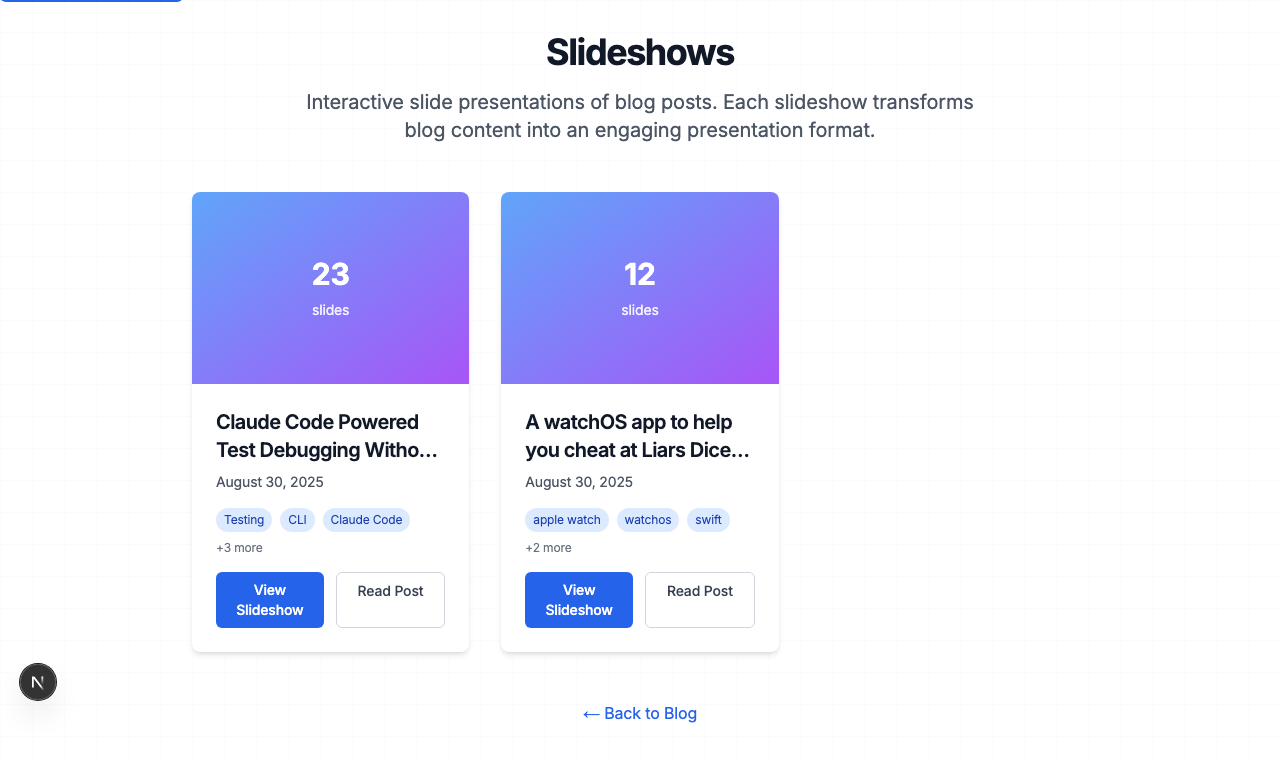
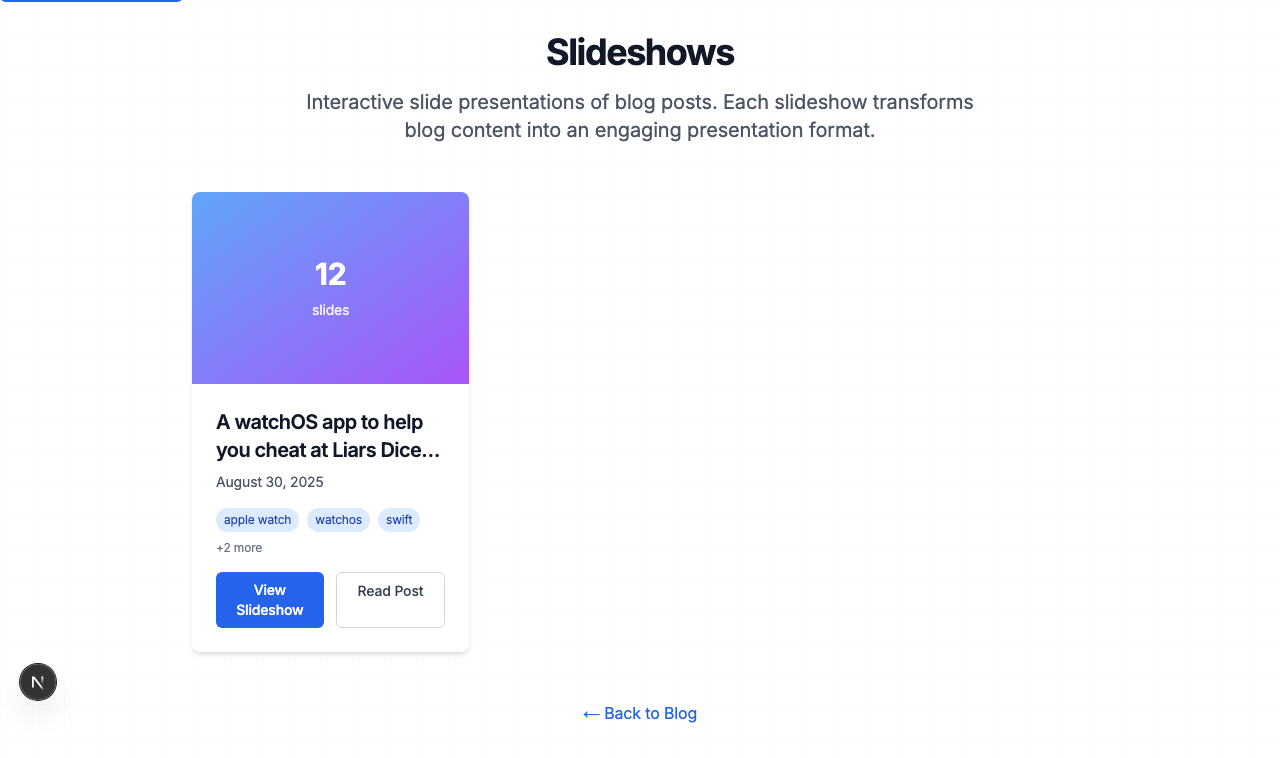
feat: Implement manual slideshow creation system
IMPROVEMENT: Slideshows are now manually controlled instead of automatic! ✅

Key changes:
- Added `slideshow: true` frontmatter field to enable slideshows per post
- Updated PostData interface to include optional slideshow field
- Modified slideshow filtering to only show posts with slideshow: true
- Updated UI to conditionally show slideshow CTAs only for enabled posts
- Enhanced post parsing to read slideshow field from frontmatter

Behavior changes:
✅ Only posts with `slideshow: true` get slideshow generation
✅ Slideshow CTA only appears on posts with slideshow enabled
✅ /slides index only shows manually enabled slideshows
✅ Direct slideshow URLs return 404 if post doesn't have slideshow: true
✅ Existing functionality preserved for enabled posts

Example configuration:
```yaml
---
title: "My Post"
date: "2025-08-31"
slideshow: true  # <- Add this to enable slideshow
---
```

Test results:
- Liars Dice post: ✅ slideshow enabled, CTA visible, slideshow accessible
- TFQ post: ✅ slideshow disabled, no CTA, returns 404
- All existing functionality working for enabled posts

This gives you full control over which posts become slideshows! 🎯

🤖 Generated with [Claude Code](https://claude.ai/code)

diff --git a/playwright-report/index.html b/playwright-report/index.html
@@ -73,4 +73,4 @@ Error generating stack: `+u.message+`
     <div id='root'></div>
   </body>
 </html>
[2 lines of base64/hex data omitted]

diff --git a/app/posts/[id]/page.tsx b/app/posts/[id]/page.tsx
@@ -138,27 +138,29 @@ export default async function PostPage({ params }: PostPageProps) {
               <div dangerouslySetInnerHTML={{ __html: post.content }} />
             </div>
 
-            {/* Slideshow CTA */}
-            <div className="mt-12 p-6 rounded-lg border-2 border-dashed border-gray-300 dark:border-gray-600 bg-gray-50 dark:bg-gray-800/50">
-              <div className="text-center">
-                <div className="text-4xl mb-4">📽</div>
-                <h3 className="text-lg font-semibold text-gray-900 dark:text-gray-100 mb-2">
-                  View as Slideshow
-                </h3>
-                <p className="text-gray-600 dark:text-gray-400 mb-4">
-                  Experience this post as an interactive presentation
-                </p>
-                <Link
-                  href={`/slides/${post.id}`}
-                  className="inline-flex items-center px-6 py-3 border border-transparent text-base font-medium rounded-md text-white bg-blue-600 hover:bg-blue-700 transition-colors duration-200"
-                >
-                  Open Slideshow
-                  <svg className="ml-2 -mr-1 w-5 h-5" fill="currentColor" viewBox="0 0 20 20">
-                    <path fillRule="evenodd" d="M10.293 3.293a1 1 0 011.414 0l6 6a1 1 0 010 1.414l-6 6a1 1 0 01-1.414-1.414L14.586 11H3a1 1 0 110-2h11.586l-4.293-4.293a1 1 0 010-1.414z" clipRule="evenodd" />
-                  </svg>
-                </Link>
+            {/* Slideshow CTA - only show if post has slideshow enabled */}
+            {post.slideshow && (
+              <div className="mt-12 p-6 rounded-lg border-2 border-dashed border-gray-300 dark:border-gray-600 bg-gray-50 dark:bg-gray-800/50">
+                <div className="text-center">
+                  <div className="text-4xl mb-4">📽</div>
+                  <h3 className="text-lg font-semibold text-gray-900 dark:text-gray-100 mb-2">
+                    View as Slideshow
+                  </h3>
+                  <p className="text-gray-600 dark:text-gray-400 mb-4">
+                    Experience this post as an interactive presentation
+                  </p>
+                  <Link
+                    href={`/slides/${post.id}`}
+                    className="inline-flex items-center px-6 py-3 border border-transparent text-base font-medium rounded-md text-white bg-blue-600 hover:bg-blue-700 transition-colors duration-200"
+                  >
+                    Open Slideshow
+                    <svg className="ml-2 -mr-1 w-5 h-5" fill="currentColor" viewBox="0 0 20 20">
+                      <path fillRule="evenodd" d="M10.293 3.293a1 1 0 011.414 0l6 6a1 1 0 010 1.414l-6 6a1 1 0 01-1.414-1.414L14.586 11H3a1 1 0 110-2h11.586l-4.293-4.293a1 1 0 010-1.414z" clipRule="evenodd" />
+                    </svg>
+                  </Link>
+                </div>
               </div>
-            </div>
+            )}
 
           </article>
         </main>

diff --git a/lib/posts.ts b/lib/posts.ts
@@ -111,6 +111,7 @@ export interface PostData {
   metaDescription?: string
   canonicalUrl?: string
   relatedPosts?: string[]
+  slideshow?: boolean
 }
 
 export interface PostMeta {
@@ -151,7 +152,8 @@ export function getSortedPostsData(): PostData[] {
         seoTitle: matterResult.data.seoTitle || matterResult.data.title,
         metaDescription: matterResult.data.metaDescription || matterResult.data.excerpt,
         canonicalUrl: matterResult.data.canonicalUrl,
-        relatedPosts: matterResult.data.relatedPosts || []
+        relatedPosts: matterResult.data.relatedPosts || [],
+        slideshow: matterResult.data.slideshow || false
       }
     })
 
@@ -222,7 +224,8 @@ export async function getPostData(id: string): Promise<PostData | null> {
     seoTitle: matterResult.data.seoTitle || matterResult.data.title,
     metaDescription: matterResult.data.metaDescription || matterResult.data.excerpt,
     canonicalUrl: matterResult.data.canonicalUrl,
-    relatedPosts: matterResult.data.relatedPosts || []
+    relatedPosts: matterResult.data.relatedPosts || [],
+    slideshow: matterResult.data.slideshow || false
   }
 }
 

diff --git a/lib/slides.ts b/lib/slides.ts
@@ -179,16 +179,21 @@ function createSlideFromBuffer(slide: Partial<Slide>, content: string[]): Slide 
 }
 
 /**
- * Get all available slideshows (from existing posts)
+ * Get all available slideshows (only from posts with slideshow: true)
  */
 export function getAllSlideshows(posts: PostData[]): SlideShow[] {
-  return posts.map(convertPostToSlideshow)
+  return posts
+    .filter(post => post.slideshow === true)
+    .map(convertPostToSlideshow)
 }
 
 /**
- * Get slideshow by ID
+ * Get slideshow by ID (only if the post has slideshow: true)
  */
 export function getSlideshowById(id: string, posts: PostData[]): SlideShow | null {
   const post = posts.find(p => p.id === id)
-  return post ? convertPostToSlideshow(post) : null
+  if (!post || !post.slideshow) {
+    return null
+  }
+  return convertPostToSlideshow(post)
 }

diff --git a/posts/liars-dice-apple-watch-app.md b/posts/liars-dice-apple-watch-app.md
@@ -3,6 +3,7 @@ title: "A watchOS app to help you cheat at Liars Dice using math"
 date: "2025-08-31"
 excerpt: "A watchOS app to help you cheat at Liars Dice using math"
 tags: ["apple watch", "watchos", "swift", "gaming", "probability"]
+slideshow: true
 ---
 
 I like to play Liars Dice with friends and family, and since its getting easier and easier to scratch even minute software itches I thought: why not make a simple Apple Watch app to help me cheat?
